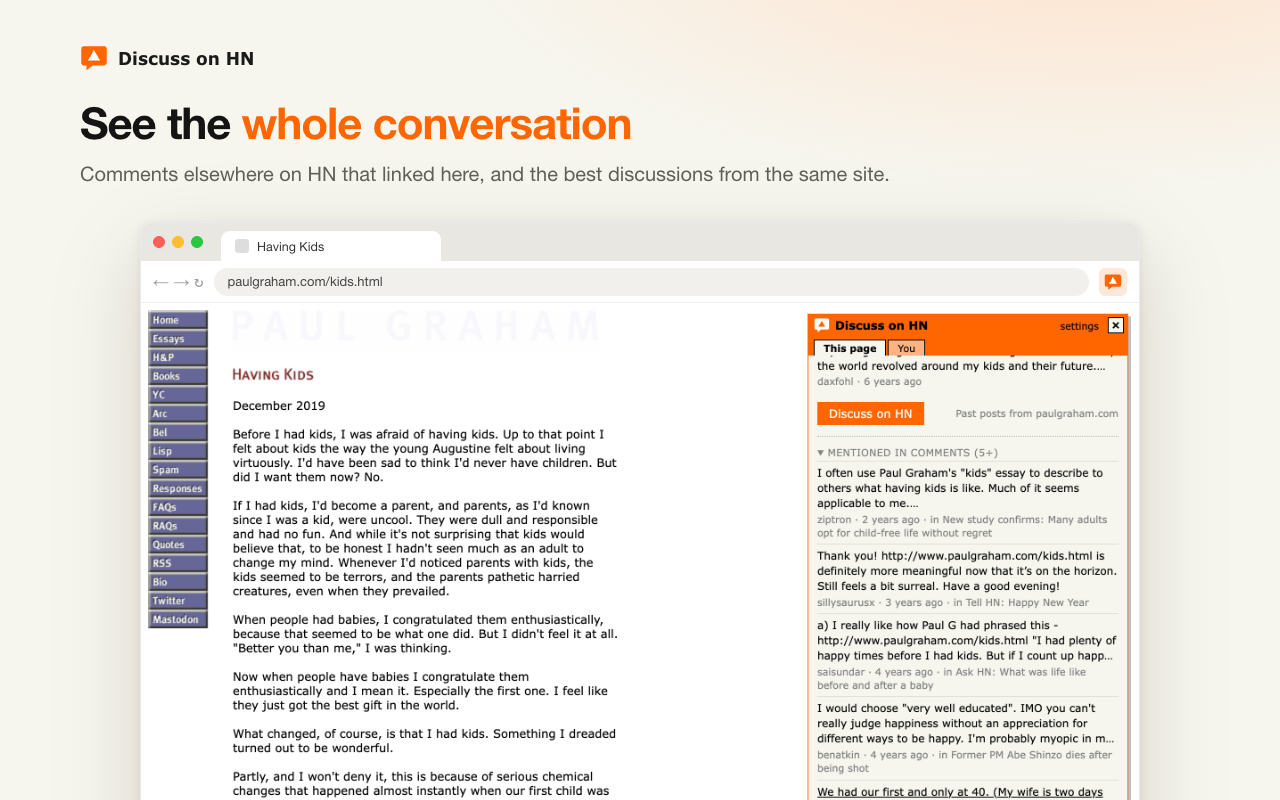
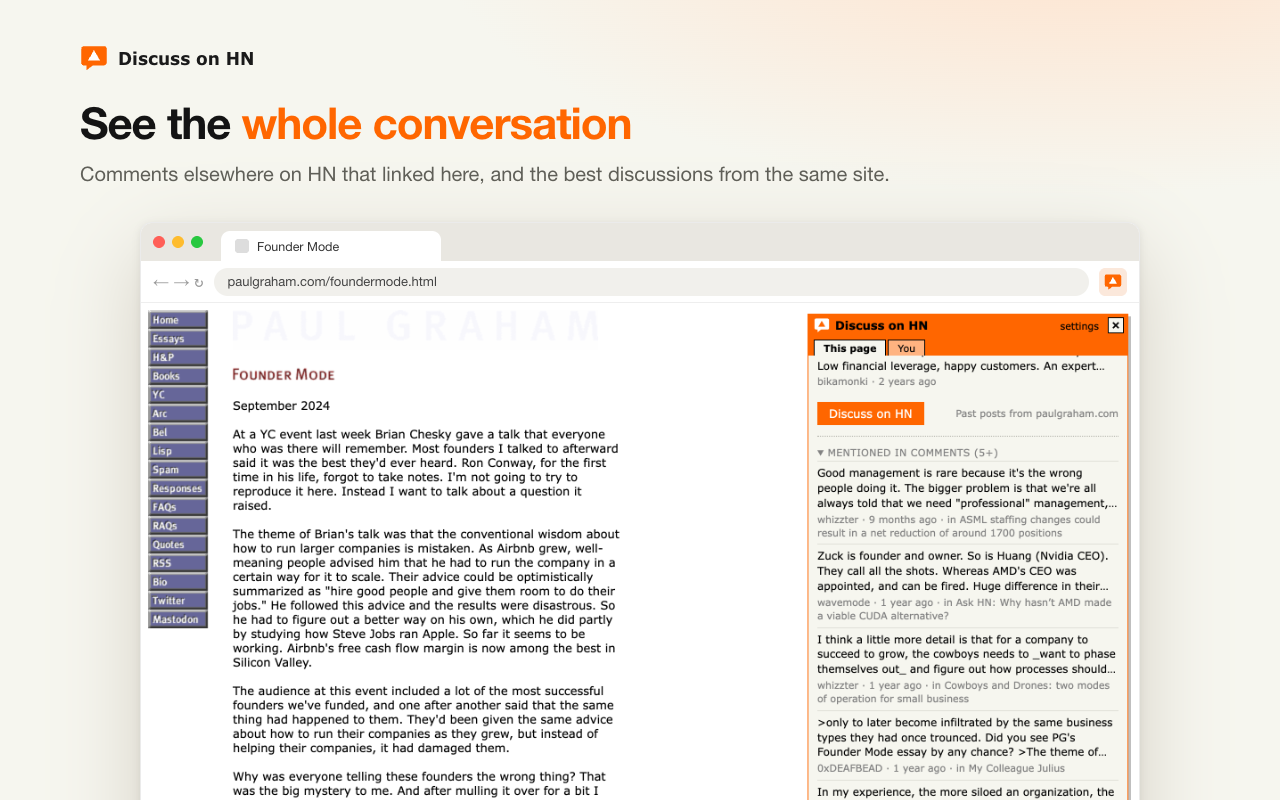
Use Founder Mode as the reference page in the site, store screenshots and share image

diff --git a/landing/index.html b/landing/index.html
@@ -72,12 +72,12 @@
     </div>
     <p class="note">The extension has no accounts, no tracking and no AI. Not affiliated with Y Combinator or Hacker News.</p>
     <figure class="frame hero-shot">
-      <div class="chrome" aria-hidden="true"><i></i><i></i><i></i><span>paulgraham.com/kids.html</span><img src="assets/icon.svg" width="18" height="18" alt=""></div>
-      <img src="assets/shot-posted.jpg" width="1600" height="971" alt="The Discuss on HN panel on Paul Graham's essay Having Kids: three Hacker News threads, the top comments and a Discuss on HN button">
+      <div class="chrome" aria-hidden="true"><i></i><i></i><i></i><span>paulgraham.com/foundermode.html</span><img src="assets/icon.svg" width="18" height="18" alt=""></div>
+      <img src="assets/shot-posted.jpg" width="1600" height="971" alt="The Discuss on HN panel on Paul Graham's essay Founder Mode: its Hacker News threads, the top comments and a Discuss on HN button">
     </figure>
     <!-- On phones a whole browser window shrinks to unreadable; show the panel itself -->
     <figure class="panel hero-panel">
-      <img src="assets/panel-posted.png" width="720" height="1184" alt="The Discuss on HN panel: three Hacker News threads for Paul Graham's essay Having Kids, the top comments and a Discuss on HN button">
+      <img src="assets/panel-posted.png" width="720" height="1184" alt="The Discuss on HN panel: Hacker News threads for Paul Graham's essay Founder Mode, the top comments and a Discuss on HN button">
     </figure>
   </section>
 
